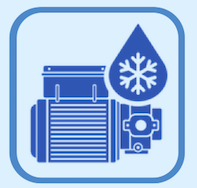
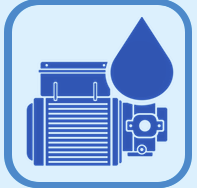
adding pump status

diff --git a/public/js/controllers/waterGaugeCtrl.js b/public/js/controllers/waterGaugeCtrl.js
@@ -229,11 +229,11 @@ queue()
 	console.log("Ultima Leitura Pumper1: " + lastStatus1 + " horario: " + lastTime1)
 	if (pumpDim.top(1)[0].status == 0) {
 		console.log("nao tem agua Pumper1")
-		imgPump1.src = './images/waterpump-error.png';
+		imgPump1.src = './images/waterpump-error1.png';
 	}
 	else {
 		console.log("tem agua Pumper 1")
-		imgPump1.src = './images/waterpump-ok.png';
+		imgPump1.src = './images/waterpump-ok1.png';
 
 	}
 		
@@ -260,10 +260,10 @@ queue()
 
 	if (lastStatus2 == 0) {
 		console.log("nao tem agua Pumper 2")
-		imgPump2.src = './images/waterpump-error.png';
+		imgPump2.src = './images/waterpump-error1.png';
 	} else {
 		console.log("tem agua Pumper 2")
-		imgPump2.src = './images/waterpump-ok.png';
+		imgPump2.src = './images/waterpump-ok1.png';
 
 	}
 		
